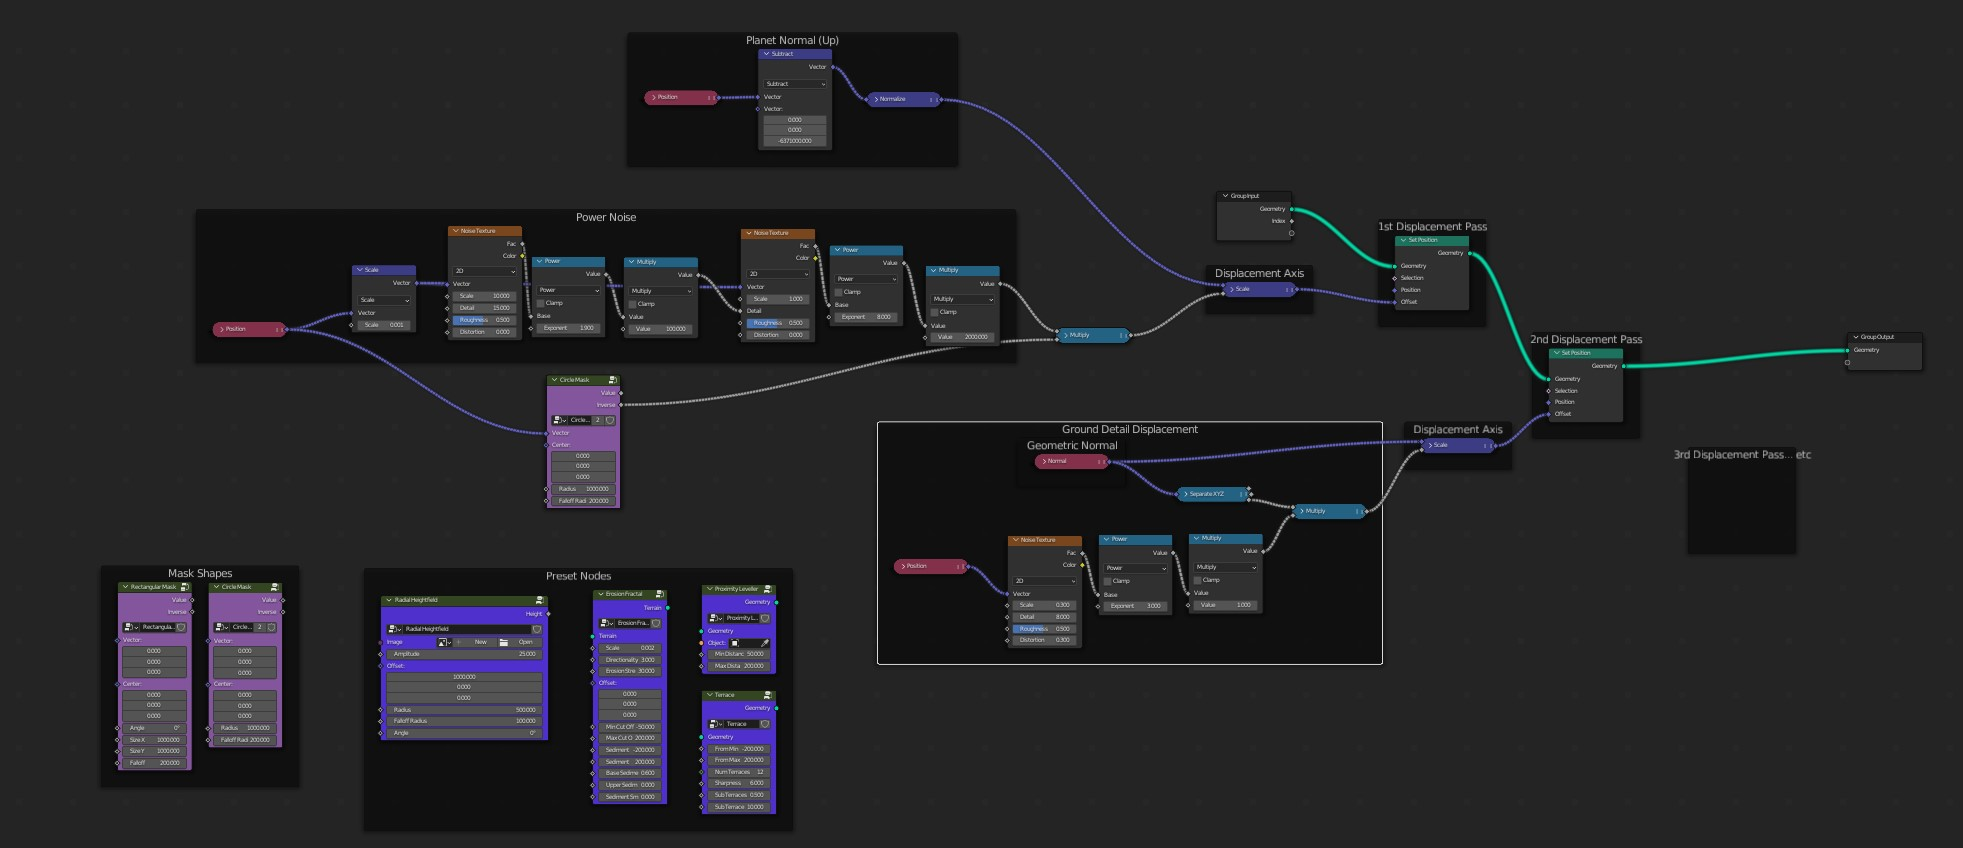
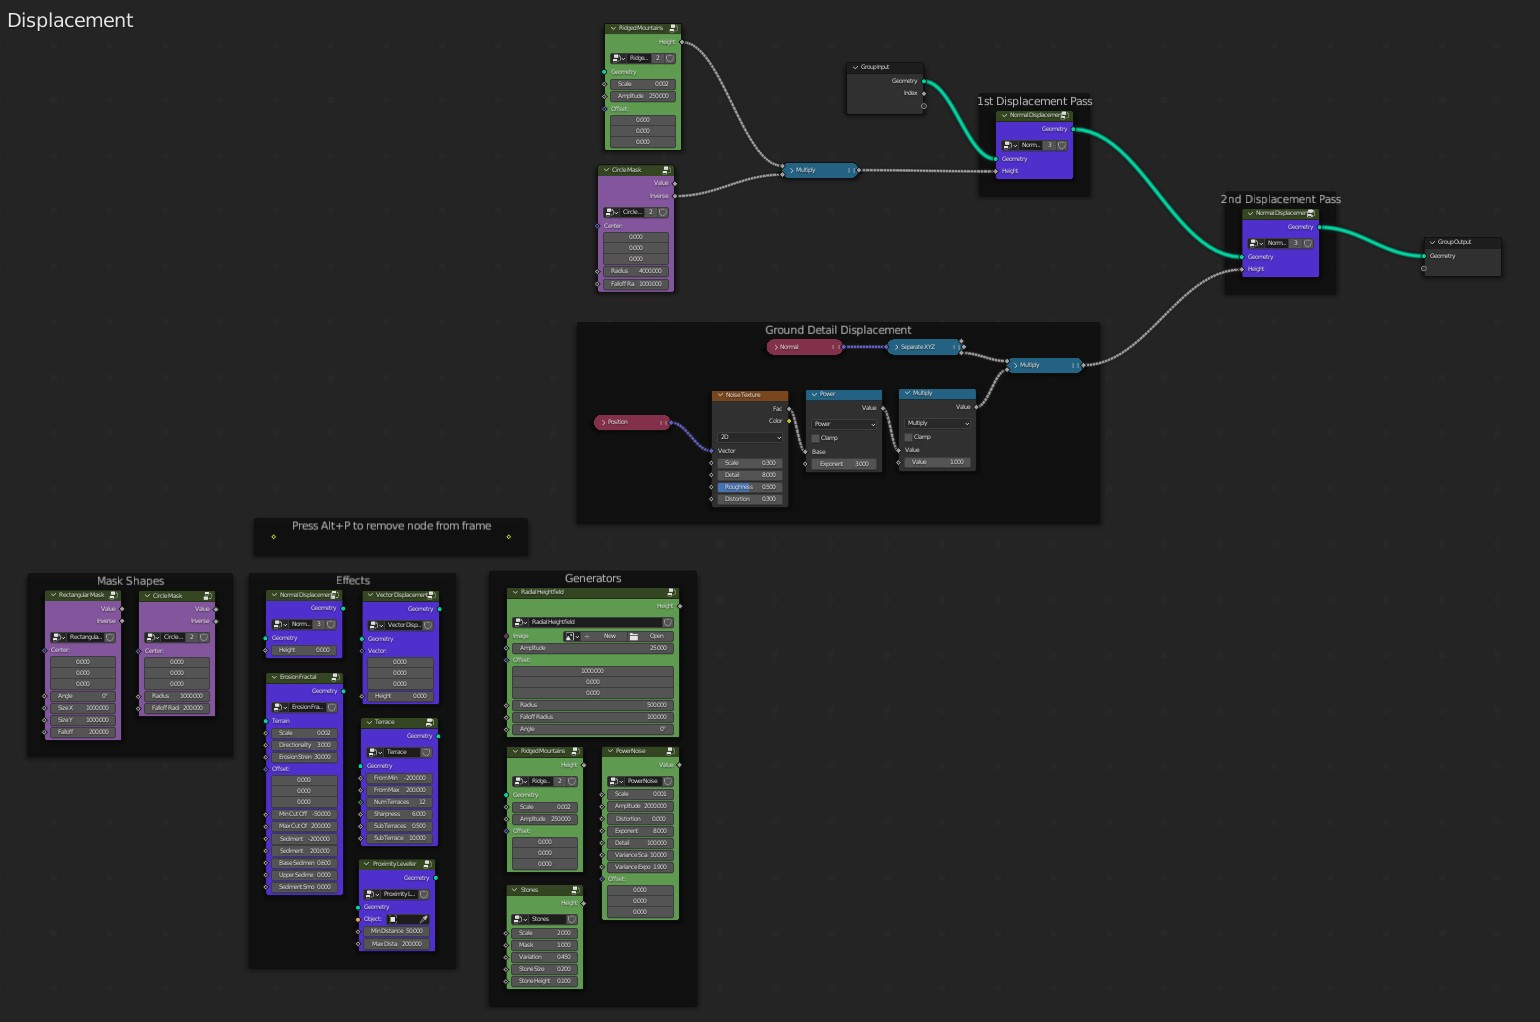
2022.4

diff --git a/docs/terrain nodes.md b/docs/terrain nodes.md
@@ -24,9 +24,6 @@ This is the exponent part of the power noise. Increasing the value amplifies lar
 **Detail**  
 The smallest level of detail in the noise pattern. 30 should be sufficient unless the noise is very large scale, whereby you may want to increase the value.
 
-**Vector**  
-The offset vector of the noise (in meters). Changes in the x and y will shift the noise features around along the planet surface. Changes in z will shift the entire terrain vertically.
-
 !!! Tip
     Since Blender noise does not currently implement seeds, you can find new variations of noise by using large shifts in the x and y axes.
 
@@ -35,6 +32,9 @@ Variance modulates the contribution of detail over the terrain, creating a more 
 
 **Variance Exponent**  
 Increasing this value makes the variance change more harshly.
+
+**Offset**  
+The offset vector of the noise (in meters). Changes in the x and y will shift the noise features around along the planet surface.
 
 ## Radial Heightfield
 
@@ -62,15 +62,70 @@ The maximum displacement height of the heightfield (in meters).
 **Angle**  
 Angle of rotation of the heightfield (through the z axis).
 
+## Ridged Mountains
+
+A more natural looking mountain noise that features ridged mountains and valleys with resemblance of drainage basins.
+
+![](media/generic_clouds.jpg)
+
+### Parameters
+
+**Scale**  
+The scale of the noise features in the xy coordinates (height not affected). Larger values produce smaller features.
+
+**Amplitude**  
+The height multiplier (in meters). Larger values produce taller features.
+
+**Offset**  
+The offset vetor that can be used to translate the noise in the xy plane. The z offset varies the noise look.
+
+## Stones
+
+Creates a procedural pebble pattern that can be used to create small displacements that resemble stones in the ground.
+
+![](media/stones.jpg)
+
+### Parameters
+
+**Scale**  
+The xy scale of the stone center points (higher value increases stone frequency).
+
+**Mask**  
+Value from 0 to 1 that can be used to hide the stones procedurally. i.e. with a noise texture.
+
+**Variation**  
+Value between 0 and 1 that increases the variation in stone size.
+
+**Stone Size**  
+The baseline radius of the stones (does not affect height).
+
+**Stone Height**  
+The vertical height scaling of the stones (in meters).
+
+
 # Effects
 
-The effects modify existing terrain features.
+## Normal Displacement
+
+![](media/normal_displacement.jpg){: width=20% }
+
+Displaces the terrain geometry in the direction of the surface normal by the height input value. You would typically use a procedural pattern like noise to create endless displacement effects.
+
+The default displacement nodes consist of two normal displacement passes: one for the main large terrain features, and another for the ground details. You can use many displacement passes in series to create interesting effects.
+
+## Vector Displacement
+
+![](media/vector_displacement.jpg){: width=20% }
+
+Displaces the terrain geometry along a custom vector direction by the height input value.
 
 ## Erosion Fractal
 
+![Erosion Fractal](media/erosion_fractal.jpg)
+
 This adds a hydraulic erosion and deposition effect to the existing terrain. It works well over low frequency smooth terrain, but not on terrain that already has lots of details.
 
-#### Parameters
+### Parameters
 
 **Scale**  
 Sets the base scale of the erosion features in the xy plane (does not affect erosion depth). If this value gets too low, it can yield unnatural looking results.
@@ -93,12 +148,9 @@ The terrain height (in meters) in which the sediment level will be equal to the 
 **Upper Sediment Height**  
 The terrain height (in meters) in which the sediment level will be equal to the upper sediment level.
 
-
-![Erosion Fractal](media/erosion_fractal.jpg)
-
 ## Terrace
 
-This quantizes the terrain into different strata levels.
+This quantizes the terrain height into different random strata levels.
 
 ![Terrace](media/terrace.jpg)
 
@@ -140,6 +192,43 @@ The mimimum distance cut-off (in metres) to the target object for the level effe
 **Max Distance**  
 The maximum distance (in metres) to the target object for the level effect. The terrain will be unaffected beyond this distance from the target object.
 
+## Strata
+
+This is similar to the terrace node, in that it rounds the existing terrain level. You can set the angles of the plateau and cliff sections,which allows for more specific control.
+
+![](media/strata.jpg){: width=80% }
+
+### Parameters
+
+**Strata Size**  
+The vertical height in meters of each strata level. You can parameterise this with noise to add some variation.
+
+**Primary Angle**  
+The angle of the cliff sections of the strata (in degrees). Zero will result in vertical cliffs and anything over zero will create more of a slope.
+
+**Plateau Angle**  
+The angle of the flatter sections of the strata (in degrees). Zero will result in horizontal plateaus and anything over zero will create sloped plateaus.
+
+**Mask**  
+Value bewteen 0 and 1 that interpolates between the strata effect and the base terrain (1 is full strata effect).
+
+## Cliff Rocks
+
+Creates the effect of rock seams on near vertical slopes of the existing terrain. Work well in combination with noise to distort the cliff faces before.
+
+![](media/cliff_rocks.jpg){: width=70% }
+![](media/cliff_rocks_noise.jpg){: width=70% }
+
+### Parameters
+
+**Scale**  
+Scale factor of the rock texture.
+
+**Amplitude**  
+The displacement amplitude in meters.
+
+---
+
 # Mask Nodes
 
 Mask nodes output a value between 0 and 1 in basic shapes that can be used to manipulate terrain features. The inverse outputs the opposite value.
@@ -149,9 +238,6 @@ Mask nodes output a value between 0 and 1 in basic shapes that can be used to ma
 ![](media/circle_mask_node.jpg){: width=20% }
 
 ### Parameters
-
-**Vector**  
-The coordinates for the mask shape to use (typically a position node).
 
 **Center**  
 The center point of the circle.
@@ -167,9 +253,6 @@ The radius of the smooth transition on the outside of the circle.
 ![](media/rectangular_mask_node.jpg){: width=20% }
 
 ### Parameters
-
-**Vector**  
-The coordinates for the mask shape to use (typically a position node).
 
 **Center**  
 The center point of the circle.

diff --git a/docs/atmosphere.md b/docs/atmosphere.md
@@ -1,3 +1,5 @@
+![](media/atmosphere.jpg){: width=80% }
+
 The atmosphere can be enabled in the atmosphere sub-panel. This will add an atmosphere domain around the scene and change the scene's world background.
 
 ![Atmosphere Panel](media/atmosphere_panel.jpg){ width=50% }
@@ -25,7 +27,7 @@ The amount of light that is absorbed by aerosols, making the distance appear dar
 **Atmosphere Ceiling**  
 PlanetSet generates an 'atmospheric shell' around the scene when the atmosphere is enabled. This shell extends upwards into the sky until it reaches the *ceiling altitude*, which can be changed in the atmosphere panel.
 
-You may want to make this value much larger to recreate scattering for taller mountains or for high-altitude clouds. However, as the ceiling gets higher, the atmosphere starts becoming more like a true sky. Eventually, it becomes unphysical to illuminate the sky volume with the Nishita sky background. This would be equivalent to outer space looking like the sky, whereas in outer space there is just the direct light coming from the sun and everything else is black. Therefore, the physical atmopshere option simply sets the background the black and introduces a blackbody sun lamp; the colours of the sky are recreated naturally through scattering.
+You may want to make this value much larger to recreate scattering for taller mountains or for high-altitude clouds. However, as the ceiling gets higher, the atmosphere starts becoming more like a true sky. Eventually, it becomes unphysical to illuminate the sky volume with the Nishita sky background. This would be equivalent to outer space looking like the sky, whereas in outer space there is just the direct light coming from the sun and everything else is black. Therefore, the physical atmopshere option simply sets the background to black with a sun disk, and the colours of the sky are recreated naturally through volumetric scattering.
 
 ---
 
@@ -35,14 +37,6 @@ The Nishita sky model is the default sky model built into Blender which users ma
 
 ## Physical Atmosphere
 
-!!! Warning
+![](media/space.jpg)
 
-    As of Blender 3.2, the physical atmosphere is currently unusable due to issues with Cycles. For this reason it is disabled, but I am working to try and get the issue resolved so it can be used again.
-
-When enabled, the background brightness is set to zero (black like outer space) and a sun disk and full-scale atmosphere is placed around the scene. The atmosphere shader mimics Rayleigh, Mie and Ozone scattering. With this setup, most of the lighting comes from actual volumetric scattering in the atmosphere, so it is very important to make sure the volume bounces are sufficient. It requires more samples to render the physical atmosphere, particularly when the sun has a low elevation.
-
-The results will look subtly different with this sky. As the artist, it is up to you to choose which you prefer, however, the physical sky is designed to be used when:
-
-- You are rendering very high altitude shots (e.g. close to the edge of space) where the atmosphere's ceiling must be very high.
-- You are rendering large, high-altitude clouds (like a storm cloud) that would benefit from lighting affected by the atmosphere at high altitude.
-- You are rendering dusk/dawn shots - physical atmosphere recreates the Earth's shadow and [The Belt of Venus](https://en.wikipedia.org/wiki/Belt_of_Venus).
+Enabling the physical atmosphere will often provide more realstic results, since all the sky color contribution comes from the atmosphere volume shader. It is particularly effective at high altitude shots and sunset/dawn shots. It also makes very high-altitude clouds look more realistic.

diff --git a/docs/index.md b/docs/index.md
@@ -1,6 +1,6 @@
 ![PlanetSet](media/planetset_logo.png){: .center width=66%}
 
-**Current Version:** 2022.3 (Beta)
+**Current Version:** 2022.4 (Beta)
 
 # Welcome to PlanetSet
 
@@ -13,6 +13,26 @@ For installation instructions, see [getting started](getting started.md).
 The docs should cover every feature of PlanetSet and provide some basic tutorials. You can use the search bar to search the docs for keywords. If you think something is missing, please contact me.
 
 # Changelog
+
+## 2022.4 (Beta) - Yet to be released
+
+![](media/space.jpg){: .center width=80% }
+
+- **New:** [Freeze option](planet.md#freeze) in the planet settings that stops the terrain from updating whilst enabled. Useful for moving/animating the active camera.
+- **New:** [Physical atmosphere](atmosphere.md#physical-atmosphere) option available (limited to 1/5th scale).
+- **New:** [Ridged mountains](terrain nodes.md#ridged-mountains) procedural node.
+- **New:** Procedural [stones](terrain nodes.md#stones) node.
+- **New:** [Cliff rocks](terrain nodes.md#cliff-rocks) effect node.
+- **New:** [Strata](terrain nodes.md#strata) effect node.
+- **New:** [Normal and vector displacement](terrain nodes.md#normal-displacement) node groups.
+- **New:** Custom UI icon.
+- **Improved** Significantly increased efficiency of terrain dicing in response to high camera altitudes.
+- **Improved** Atmosphere shader now accounts for ozone layer absorption (more accurate dawn/dusk).
+- **Improved:** Removed the vector input from mask nodes as they are misleading.
+- **Improved:** Improved default scene.
+- **Fix:** Atmosphere not updating correctly with camera altitude.
+- **Fix:** Rectangular mask falloff.
+- **Docs:** Numerous improvements and additions to the docs.
 
 ## 2022.3 (Beta) - 23/08/2022
 
@@ -36,7 +56,7 @@ The docs should cover every feature of PlanetSet and provide some basic tutorial
 
 ## 2022.2 (Beta) - 03/08/2022
 - **New:** Sun elevation and rotation shortcut in atmosphere settings.
-- **New:** [Proximity Leveller](terrain modifiers.md#proximity-leveller) terrain modifier.
+- **New:** [Proximity Leveller](terrain nodes.md#proximity-leveller) terrain modifier.
 - **New:** Overhauled the Billow Clouds shader, 'Cloud Fractal 2', which is faster and provides more consistent details and roughness control.
 - **New:** Exposure and gamma in color management settings are automatically changed when using the Adjust Cycles Settings operator (can be switched off in addon preferences).
 - **New:** Auto Leaf convenience operator to automatically set up leaf materials (alpha and translucency) if they are not already.

diff --git a/docs/clouds.md b/docs/clouds.md
@@ -1,3 +1,5 @@
+![](media/cloud_bw.jpg)
+
 # Clouds Panel
 
 The clouds panel is located in the atmosphere panel. To enable clouds, check the check box in the clouds panel header.
@@ -10,15 +12,26 @@ If you used the `Adjust Cycles Settings` operator, the viewport [step rate](http
 
 ---
 
+# Cloud Layers
+
+## Moving Clouds
+
+Do not translate the cloud domain in the z axis as this will cause the cloud shader to render incorrectly. When grabbing the cloud domain (++g++), restrict the translation to the XY plane by pressing ++shift+z++. Control altitude using the settings in the cloud panel.
+
+![Moving Clouds](media/moving_clouds.gif){: width=70% }
+
+## Domain & Shader Settings
+Cloud layers have separate settings for the domain and cloud shader. The domain is the geometry that Cycles will treat as a volume. The clouds are rendered inside the volume by a cloud shader. The cloud domain settings are decoupled from the shader settings, so you typically need to match the radius, height and altitude of the domain with the shader.
+
+![](media/cloud_settings.jpg){: width=40% }
+
+---
+
 # Cloud Layer Types
 
-!!! Warning
-    Do not translate the cloud domain in the z axis as this will cause the cloud shader to render incorrectly. Restrict the translation to the XY plane when moving cloud domains. Control altitude using the settings in the cloud panel.
-
-!!! Note
-    The cloud domain settings are decoupled from the shader settings, so you typically need to match the radius, height and altitude of the domain with the shader.
-
 ## Generic Clouds
+
+![Generic Clouds](media/generic_clouds.jpg)
 
 This cloud layer can be used to recreate many different types of clouds by altering the parameters. The cloud domain contains the cloud shader medium. It is a cylinder that follows the curvature of the planet when the radius is large enough, meaning clouds may extend over the horizon.
 
@@ -36,7 +49,7 @@ Height of the cylindrical cloud domain.
 The altitude of the domain.
 
 **Height**  
-The overall depth of the cloud layer.
+Exactly the same as domain height, but this value is fed to the shader instead of the domain geometry. For most purposes, this should match the domain's height.
 
 **Altitude**  
 The altitude of the cloud layer in the shader (should be identical to domain altitude).
@@ -77,6 +90,8 @@ This parameter stretches the cloud shader domain, causing clouds either to look 
 ---
 
 ## Billow Clouds
+
+![Billow Clouds](media/billow_clouds.jpg)
 
 This cloud layer is similar to generic clouds, but uses a billow fractal that can produce more natural looking cloud shapes.
 

diff --git a/docs/planet.md b/docs/planet.md
@@ -4,16 +4,22 @@
 
 To create a planet set, enable the checkbox in the Planet Panel header. A new collection called 'Planet Collection' will be added to the scene, which is where all the generated planet content is placed. In the collection, a section of spherical planet surface called 'Planet' will be generated relative to the scene's [active camera](https://docs.blender.org/manual/en/latest/editors/3dview/navigate/camera_view.html#setting-the-active-camera).
 
+![](media/default_planet_terrain.jpg){: width=50% }
+
 !!! Note
 
     Do not rename the collections generated by PlanetSet or move generated objects into different collections, as this will cause the references to those objects to be lost.
 
-!!! Tip
+## Moving the Camera
 
-    It is normally too slow to move the main camera around in realtime, you should move the viewport view instead and then use the [Align Camera To View](https://docs.blender.org/manual/en/2.79/editors/3dview/navigate/align.html#align-view-menu) operator to set the main camera view to the viewport view.
+It is normally too slow to move the main camera around in realtime with small dice rates. You can use the freeze option to stop updating the planet terrain whilst finding new camera angles. Alternatively, you can use the [Align Camera To View](https://docs.blender.org/manual/en/2.79/editors/3dview/navigate/align.html#align-view-menu) operator to set the main camera view to the viewportview.
 
 
 # Dice Settings
+
+PlanetSet's terrain system works by adaptively 'dicing' (subdividing) the terrain relative to the camera. This way, the memory is used much more efficiently, allowing for very large and detailed terrains.
+
+![](media/dice_settings.jpg){: width=40% }
 
 ### Active Camera
 
@@ -42,6 +48,13 @@ If enabled, will discard planet geometry outside the camera frustum. This can sa
 
 ### Padding
 Specifies the horizontal and vertical padding for the camera frustum. Can be used to remove gaps near the view edges and to account for significant features near the frustum edges.
+
+### Freeze
+When enabled, the terrain will not update. This can be useful when moving the active camera or making changes without the latency of the planet geometry updates.
+
+!!! Tip
+    To keep the displacement node tree open when the terrain is frozen you must pin it in the node editor, otherwise it will disappear until the terrain is unfrozen.
+    ![](media/pin_node_tree.jpg){: width=50% }
 
 ## Planet Settings
 

diff --git a/docs/getting started.md b/docs/getting started.md
@@ -39,14 +39,14 @@ The planet surface starts off as a section of smooth sphere. Using geometry node
 
 ![](media/displacement_node_location.jpg)
 
-The default node network template uses some noise patterns to generate a generic looking terrain and masks it with a large circle to create a flat valley (nodes shown below). There are [terrain node group presets](terrain nodes.md) available in this network to help you get started.
+The default node network template uses some noise patterns to generate a generic looking terrain and masks it with a large circle to create a flat valley (nodes shown below). There are [terrain node group presets](terrain nodes.md) available in this network to help you create landscapes.
 
 ![](media/default_displacement_nodes.jpg){: .zoom }
 
-Displacement works similarly to how it would normally in Blender, except the displacement effect is achieved by offsetting vertices using a [Set Position Node](https://docs.blender.org/manual/en/latest/modeling/geometry_nodes/geometry/set_position.html).
+Displacement works similarly to how it would normally in Blender, but by instead passing the terrain geometry through a [displacement node](terrain nodes.md#normal-displacement).
 
-![](media/displacement_set_position.jpg){: width=70% }
+![](media/displacement_set_position.jpg){: width=40% }
 
-The vertices are displaced along a vector that should be [normalised](https://docs.blender.org/manual/en/latest/modeling/geometry_nodes/vector/vector_math.html#properties) to unit length to preserve consistent scaling. The displacement is typically the surface normal, but you can change this to achieve more complex displacement shapes.
+Displacement is typically done along the surface normal, but you can use the [vector displacement node](terrain nodes.md#vector-displacement) to achieve more complex shapes.
 
-Displacement effects can be stacked using multiple passes of the Set Position node. The default node network has two displacement passes: the first for the main terrain and the second for ground details.
+Displacement effects can be stacked in multiple passes. The default node network has two displacement passes: the first for the main terrain and the second for ground details.

diff --git a/docs/instancing.md b/docs/instancing.md
@@ -77,3 +77,12 @@ How much influence the noise modulation has on the density.
 
 **Noise Scale**  
 The size of the noise features.
+
+---
+
+## Autoleaf
+
+The autoleaf operator is a utility that can be used to automatically set up leaf materials on imported plant meshes. It adds a transparency shader for the leaf texture alpha channel and a translucency shader.
+
+The autoleaf operator can be found in the operator search menu (++space++). It will apply changes to the material in actively selected material slot.
+
